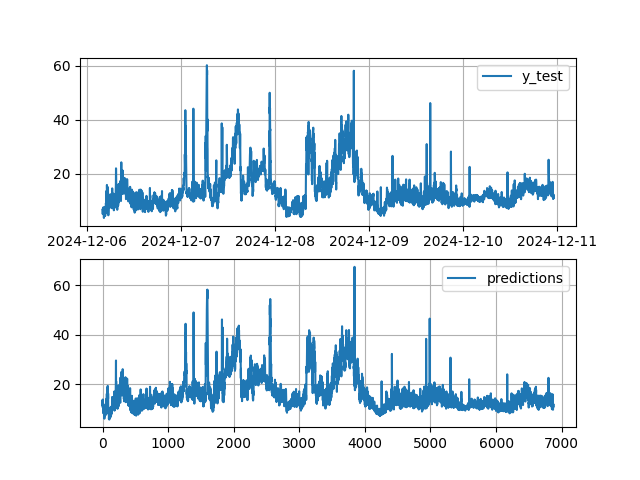
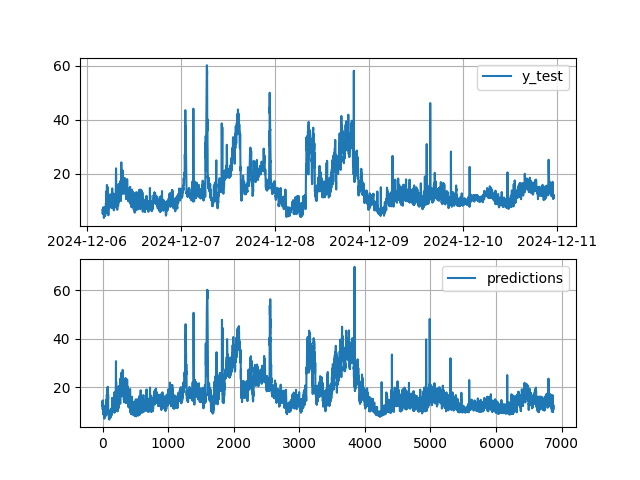
create subfolders for workflows, add config files for workflows for each

diff --git a/utils.py b/utils.py
@@ -2,6 +2,8 @@ import pandas as pd
 import re
 import keras
 from keras import Model
+import logging
+import yaml
 
 
 class SensorData:
@@ -13,7 +15,7 @@ class SensorData:
             "data_RAW_ADC_NO2_A"]
         self.dataAQSN = self.dataAQSN[["electrode_difference_NO2"]]
 
-        if in_hour: # checken
+        if in_hour:  # checken
             self.dataAQSN.resample("h").mean()
 
         self.all_data = self.dataLUBW.join(self.dataAQSN, how="inner", lsuffix="_LUBW", rsuffix="_AQSN")
@@ -29,7 +31,7 @@ class SensorData:
             dates = pd.to_datetime(time_column)
 
         dataLUBW.set_index(dates, inplace=True, drop=True)
-        return dataLUBW[["data_NO2"]] # variable machen
+        return dataLUBW[["data_NO2"]]  # variable machen
 
     def __read_aqsn(self, file_path: str) -> pd.DataFrame:
         data = pd.read_csv(file_path)
@@ -50,12 +52,24 @@ class SensorData:
         return self.all_data["electrode_difference_NO2"]
 
 
-def train_model(model: Model, inputs: pd.DataFrame, targets: pd.DataFrame, save: bool=False) -> None:
-    model.compile(optimizer=keras.optimizers.Adam(0.001), loss="mean_squared_error")
-    model.fit(inputs, targets, epochs=5, batch_size=3)
+def train_model(model: Model, config: dict, inputs: pd.DataFrame, targets: pd.DataFrame, save: bool = False) -> None:
+    model.compile(optimizer=keras.optimizers.Adam(learning_rate=config["learning_rate"]), loss="mean_squared_error")
+    model.fit(x=inputs, y=targets, epochs=config["epochs"], batch_size=config["batch"])
     if save:
-        model.save("../models/model.keras")
+        model.save(f"../../models/{config['name']}.keras")
 
 
 def load_model(model_path: str) -> Model:
     return keras.saving.load_model(model_path)
+
+
+def get_config() -> dict:
+    try:
+        with open("./workflow_config.yaml", 'r') as file:
+            return yaml.safe_load(file)
+    except FileNotFoundError:
+        logging.error(f"No workflow config found in directory")
+    except IOError:
+        logging.error(f"IOError: An I/O error occurred")
+    except Exception as e:
+        logging.error(f"An unexpected error occurred: {e}")

diff --git a/workflows/sont_c_1/sont_c_1.py b/workflows/sont_c_1/sont_c_1.py
@@ -1,12 +1,12 @@
 from sklearn.model_selection import train_test_split
 from models import create_feedforward_model
-from utils import SensorData, train_model
+from utils import SensorData, train_model, get_config
 import matplotlib.pyplot as plt
 
 
 if __name__ == "__main__":
-    sontc_data = SensorData(file_path_lubw="../data/minute_data_lubw.csv",
-                            file_path_aqsn="../data/sont_c_20241115-20241217.csv",
+    sontc_data = SensorData(file_path_lubw="../../data/minute_data_lubw.csv",
+                            file_path_aqsn="../../data/sont_c_20241115-20241217.csv",
                             in_hour=False)
 
     x_train, x_test, y_train, y_test = train_test_split(sontc_data.get_difference_electrodes_no2,
@@ -16,6 +16,7 @@ if __name__ == "__main__":
 
     feedforward_model = create_feedforward_model()
     train_model(model=feedforward_model,
+                config=get_config(),
                 inputs=x_train,
                 targets=y_train,
                 save=False)
@@ -30,7 +31,7 @@ if __name__ == "__main__":
     for ax in axes:
         ax.grid(True)
         ax.legend()
-    plt.savefig('../plots/sont_c_1.png')
+    plt.savefig('../../plots/sont_c_1.png')
     plt.show()
 
 

diff --git a/workflows/sont_c_2/sont_c_2.py b/workflows/sont_c_2/sont_c_2.py
@@ -1,12 +1,12 @@
 from sklearn.model_selection import train_test_split
 from models import create_feedforward_model
-from utils import SensorData, train_model
+from utils import SensorData, train_model, get_config
 import matplotlib.pyplot as plt
 
 
 if __name__ == "__main__":
-    sontc_data = SensorData(file_path_lubw="../data/minute_data_lubw.csv",
-                            file_path_aqsn="../data/sont_c_20241115-20241217.csv",
+    sontc_data = SensorData(file_path_lubw="../../data/minute_data_lubw.csv",
+                            file_path_aqsn="../../data/sont_c_20241115-20241217.csv",
                             in_hour=False)
 
     x_train, x_test, y_train, y_test = train_test_split(sontc_data.get_difference_electrodes_no2,
@@ -16,6 +16,7 @@ if __name__ == "__main__":
 
     feedforward_model = create_feedforward_model()
     train_model(model=feedforward_model,
+                config=get_config(),
                 inputs=x_train,
                 targets=y_train,
                 save=True)
@@ -31,7 +32,7 @@ if __name__ == "__main__":
     for ax in axes:
         ax.grid(True)
         ax.legend()
-    plt.savefig('../plots/sont_c_2.png')
+    plt.savefig('../../plots/sont_c_2.png')
     plt.show()
 
 

diff --git a/workflows/sont_c_3/sont_c_3.py b/workflows/sont_c_3/sont_c_3.py
@@ -2,11 +2,11 @@ from utils import SensorData, load_model
 import matplotlib.pyplot as plt
 
 if __name__ == "__main__":
-    sontc_data_december = SensorData(file_path_lubw="../data/DEBW015_20241211-202241228.csv",
-                                     file_path_aqsn="../data/sont_c_20241211-20241228.csv",
+    sontc_data_december = SensorData(file_path_lubw="../../data/DEBW015_20241211-202241228.csv",
+                                     file_path_aqsn="../../data/sont_c_20241211-20241228.csv",
                                      in_hour=True)
 
-    feedforward_model = load_model("../models/model.keras")
+    feedforward_model = load_model("../../models/feedforward_model.keras")
     december_prediction = feedforward_model.predict(sontc_data_december.get_difference_electrodes_no2)
 
     fig, axes = plt.subplots(1)
@@ -14,5 +14,5 @@ if __name__ == "__main__":
     axes.plot(december_prediction, label="11. dezember ff sont_c")
     axes.grid(True)
     axes.legend()
-    plt.savefig('../plots/sont_c_3.png')
+    plt.savefig('../../plots/sont_c_3.png')
     plt.show()
